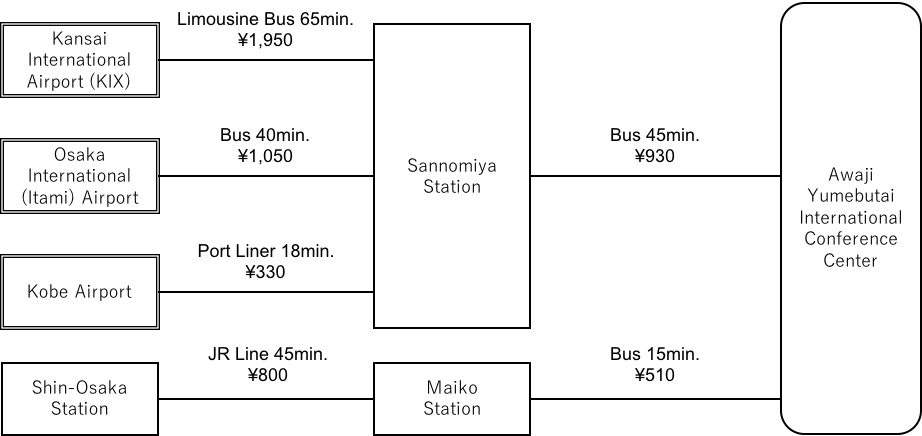
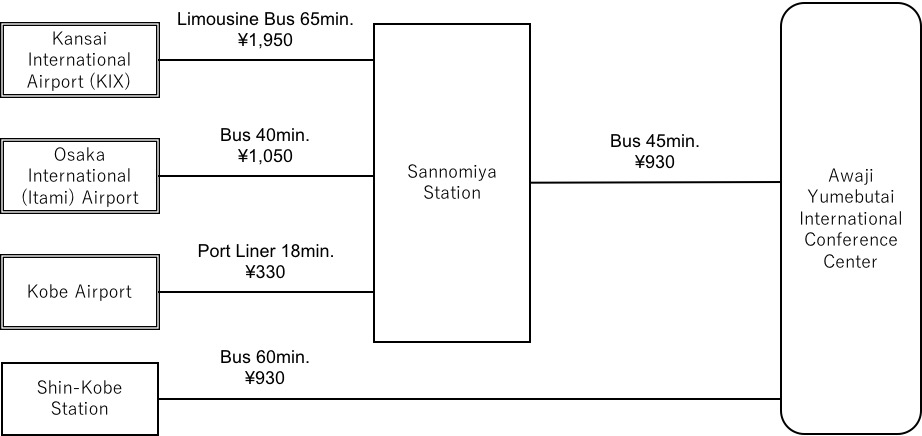
* update news * update venue

diff --git a/index.html b/index.html
@@ -12,49 +12,68 @@ status: published
 </div>
 <div class="home">
 
-<hr/>
+  <hr />
 
-<p>
-<b>The Joint International Semantic Technology Conference (JIST)</b> is a joint event for regional Semantic related conferences. <br>
-<b>The JIST2018</b> will take place from November 26 to 28, 2018 in
-the <b><a href="pages/attending/venue.html">Awaji Yumebutai International Conference Center</a></b>, Awaji City, Hyogo, Japan.
-</p>
+  <p>
+    <b>The Joint International Semantic Technology Conference (JIST)</b> is a joint event for regional Semantic related
+    conferences. <br>
+    <b>The JIST2018</b> will take place from November 26 to 28, 2018 in
+    the <b><a href="pages/attending/venue.html">Awaji Yumebutai International Conference Center</a></b>, Awaji City,
+    Hyogo, Japan.
+  </p>
 
-<p>
+  <p>
 
-<dl>
-<dt></dt>
-<dd class="indent"><b>20 Sep. 2018</b>: <span class="bold">Tentative Program</span> was published. <a href="pages/program/tentative.html">[detail..]</a></dd>
-<dd class="indent"><b>19 Sep. 2018</b>: <span class="bold">Tutorials Program</span> was published. <a href="pages/program/tutorials.html">[detail..]</a></dd>
-<dd class="indent"><b>18 Sep. 2018</b>: <span class="bold">Visa Information</span> was published. <a href="pages/attending/visa-info.html">[detail..]</a></dd>
-<dd class="indent"><b>14 Sep. 2018</b>: <span class="bold">CFP for Semantic Technology Special Issue</span> was published. <a href="pages/calls/ngc_semtech_cfp.html">[detail..]</a></dd>
-<dd class="indent"><b>13 Sep. 2018</b>: <span class="bold">Call for Workshop Papers</span> was published. <a href="pages/calls/workshop_papers.html">[detail..]</a></dd>
-<dd class="indent"><b>12 Sep. 2018</b>: <span class="bold">The Current Situation of Kasai Airport (KIX). <a href="pages/attending/venue.html#aboutKIX">[detail..]</a></dd>
-<dd class="indent"><b>10 Sep. 2018</b>: <span class="bold">Call for Poster and Demo Papers</span> was published. <a href="pages/calls/poster_demo_papers.html">[detail..]</a></dd>
-<dd class="indent"><b>29 Aug. 2018</b>: <span class="bold">Call for Tutorial Proposals</span> was published. <a href="pages/calls/tutorials.html">[detail..]</a></dd>
-<dd class="indent"><b>28 Aug. 2018</b>: <span class="bold">Call for Workshop Proposals</span> was published. <a href="pages/calls/workshops.html">[detail..]</a></dd>
-<dd class="indent"><b>24 Aug. 2018</b>: <a href="http://jist2018.knowledge-graph.jp/pages/sponsorship.html">Sponsorship information</a> was published.</dd>
-<dd class="indent"><b>04 Aug. 2018</b>: <a href="http://jist2018.knowledge-graph.jp/pages/calls/regular_technical_papers.html">The deadline for JIST 2018 Regular Technical Papers</a> was extended (Abstract:10 Aug., Paper: 17 Aug.)</dd>
-<dd class="indent"><b>13 July 2018</b>: <a href="docs/JIST2018_RegularTechnacal_CFP2.txt">2nd Call for Papers: JIST 2018 Regular Technical Papers</a> was published. </dd>
-<dd class="indent"><b>13 July 2018</b>: <a href="pages/attending/venue.html">Venu</a>, <a href="pages/attending/local-area.html">Local Area</a>, <a href="pages/attending/accommodations.html">Accommodations</a> pages were published. </dd>
-<dd class="indent"><b>15 May 2018</b>: <span class="bold">Call for Papers: JIST 2018 Regular Technical Papers</span> was published. <a href="pages/calls/regular_technical_papers.html">[detail..]</a></dd>
-<dd class="indent"><b>15 May 2018</b>: <span class="bold">Call for Papers: JIST 2018 Special Session on Government Open Data</span> was published. <a href="pages/calls/government_open_data.html">[detail..]</a></dd>
-<dd class="indent"><b>15 May 2018</b>: <span class="bold">Call for Papers: JIST 2018 Special Session on Question Answering and ChatBots</span> was published. <a href="pages/calls/qa_chatbots.html">[detail..]</a></dd>
-<dd class="indent"><b>15 May 2018</b>: <span class="bold">Call for Papers: JIST 2018 Special Session on Resource-aware Semantic Technologies</span> was published. <a href="pages/calls/resource-aware_semantic_technologies.html">[detail..]</a></dd>
-<dd class="indent"><b>15 May 2018</b>: <span class="bold">Call for Papers: JIST 2018 Special Session on Semantic Web for Life Sciences</span> was published. <a href="pages/calls/sw_for_life_sciences.html">[detail..]</a></dd>
-<dd class="indent"><b>16 Jan 2018</b>: <span class="bold">CALL FOR PROPOSALS FOR SPECIAL SESSIONS</span> was published. <a href="pages/calls/special-sessions.html">[detail..]</a></dd>
-<dd class="indent"><b>12 Nov 2017</b>: <span class="bold">The conference website</span> (tentative version) was published.
-</dd>
-</dl>
-</td>
-</p>
+    <dl>
+      <dt></dt>
+      <dd class="indent"><b>20 Sep. 2018</b>: <span class="bold">Excursion page</span> was published. <a href="pages/attending/excursion.html">[detail..]</a></dd>
+      <dd class="indent"><b>20 Sep. 2018</b>: <span class="bold">Registration page</span> was published. (Registration will be open soon.)<a href="pages/attending/registration.html">[detail..]</a></dd>
+      <dd class="indent"><b>20 Sep. 2018</b>: <span class="bold">Tentative Program</span> was published. <a href="pages/program/tentative.html">[detail..]</a></dd>
+      <dd class="indent"><b>19 Sep. 2018</b>: <span class="bold">Tutorials Program</span> was published. <a href="pages/program/tutorials.html">[detail..]</a></dd>
+      <dd class="indent"><b>18 Sep. 2018</b>: <span class="bold">Visa Information</span> was published. <a href="pages/attending/visa-info.html">[detail..]</a></dd>
+      <dd class="indent"><b>14 Sep. 2018</b>: <span class="bold">CFP for Semantic Technology Special Issue</span> was
+        published. <a href="pages/calls/ngc_semtech_cfp.html">[detail..]</a></dd>
+      <dd class="indent"><b>13 Sep. 2018</b>: <span class="bold">Call for Workshop Papers</span> was published. <a href="pages/calls/workshop_papers.html">[detail..]</a></dd>
+      <dd class="indent"><b>12 Sep. 2018</b>: <span class="bold">The Current Situation of Kasai Airport (KIX). <a href="pages/attending/venue.html#aboutKIX">[detail..]</a></dd>
+      <dd class="indent"><b>10 Sep. 2018</b>: <span class="bold">Call for Poster and Demo Papers</span> was published.
+        <a href="pages/calls/poster_demo_papers.html">[detail..]</a></dd>
+      <dd class="indent"><b>29 Aug. 2018</b>: <span class="bold">Call for Tutorial Proposals</span> was published. <a
+          href="pages/calls/tutorials.html">[detail..]</a></dd>
+      <dd class="indent"><b>28 Aug. 2018</b>: <span class="bold">Call for Workshop Proposals</span> was published. <a
+          href="pages/calls/workshops.html">[detail..]</a></dd>
+      <dd class="indent"><b>24 Aug. 2018</b>: <a href="http://jist2018.knowledge-graph.jp/pages/sponsorship.html">Sponsorship
+          information</a> was published.</dd>
+      <dd class="indent"><b>04 Aug. 2018</b>: <a href="http://jist2018.knowledge-graph.jp/pages/calls/regular_technical_papers.html">The
+          deadline for JIST 2018 Regular Technical Papers</a> was extended (Abstract:10 Aug., Paper: 17 Aug.)</dd>
+      <dd class="indent"><b>13 July 2018</b>: <a href="docs/JIST2018_RegularTechnacal_CFP2.txt">2nd Call for Papers:
+          JIST 2018 Regular Technical Papers</a> was published. </dd>
+      <dd class="indent"><b>13 July 2018</b>: <a href="pages/attending/venue.html">Venu</a>, <a href="pages/attending/local-area.html">Local
+          Area</a>, <a href="pages/attending/accommodations.html">Accommodations</a> pages were published. </dd>
+      <dd class="indent"><b>15 May 2018</b>: <span class="bold">Call for Papers: JIST 2018 Regular Technical Papers</span>
+        was published. <a href="pages/calls/regular_technical_papers.html">[detail..]</a></dd>
+      <dd class="indent"><b>15 May 2018</b>: <span class="bold">Call for Papers: JIST 2018 Special Session on
+          Government Open Data</span> was published. <a href="pages/calls/government_open_data.html">[detail..]</a></dd>
+      <dd class="indent"><b>15 May 2018</b>: <span class="bold">Call for Papers: JIST 2018 Special Session on Question
+          Answering and ChatBots</span> was published. <a href="pages/calls/qa_chatbots.html">[detail..]</a></dd>
+      <dd class="indent"><b>15 May 2018</b>: <span class="bold">Call for Papers: JIST 2018 Special Session on
+          Resource-aware Semantic Technologies</span> was published. <a href="pages/calls/resource-aware_semantic_technologies.html">[detail..]</a></dd>
+      <dd class="indent"><b>15 May 2018</b>: <span class="bold">Call for Papers: JIST 2018 Special Session on Semantic
+          Web for Life Sciences</span> was published. <a href="pages/calls/sw_for_life_sciences.html">[detail..]</a></dd>
+      <dd class="indent"><b>16 Jan 2018</b>: <span class="bold">CALL FOR PROPOSALS FOR SPECIAL SESSIONS</span> was
+        published. <a href="pages/calls/special-sessions.html">[detail..]</a></dd>
+      <dd class="indent"><b>12 Nov 2017</b>: <span class="bold">The conference website</span> (tentative version) was
+        published.
+      </dd>
+    </dl>
+    </td>
+  </p>
 
 
 
 
 
-<!-- ads -->
-<!--
+  <!-- ads -->
+  <!--
 <div>
 	<a href="{{ site.baseurl }}/pages/calls/lightning-talks.html">
 	  <img src="{{ site.baseurl }}/images/short-talk.png" width="100%">
@@ -67,8 +86,8 @@ the <b><a href="pages/attending/venue.html">Awaji Yumebutai International Confer
 
 <hr/>
 -->
-<!------- News ---------->
-<!--
+  <!------- News ---------->
+  <!--
 <div class="hidden-lg hidden-md">
 	<div class="allign-center">
 		<div class="list-group-item"  style="background-color: #009EF6">
@@ -81,8 +100,8 @@ the <b><a href="pages/attending/venue.html">Awaji Yumebutai International Confer
 </div>
 -->
 
-<!------- NOTE ---------->
-<!--
+  <!------- NOTE ---------->
+  <!--
 <div class="panel panel-info" style="border-width: 2px">
   <div class="panel-heading" style="position:relative">
     <h3>JIST2018 preprints</h3>

diff --git a/_site/index.html b/_site/index.html
@@ -563,49 +563,68 @@ jQuery(function($) {
 </div>
 <div class="home">
 
-<hr/>
+  <hr />
 
-<p>
-<b>The Joint International Semantic Technology Conference (JIST)</b> is a joint event for regional Semantic related conferences. <br>
-<b>The JIST2018</b> will take place from November 26 to 28, 2018 in
-the <b><a href="pages/attending/venue.html">Awaji Yumebutai International Conference Center</a></b>, Awaji City, Hyogo, Japan.
-</p>
+  <p>
+    <b>The Joint International Semantic Technology Conference (JIST)</b> is a joint event for regional Semantic related
+    conferences. <br>
+    <b>The JIST2018</b> will take place from November 26 to 28, 2018 in
+    the <b><a href="pages/attending/venue.html">Awaji Yumebutai International Conference Center</a></b>, Awaji City,
+    Hyogo, Japan.
+  </p>
 
-<p>
+  <p>
 
-<dl>
-<dt></dt>
-<dd class="indent"><b>20 Sep. 2018</b>: <span class="bold">Tentative Program</span> was published. <a href="pages/program/tentative.html">[detail..]</a></dd>
-<dd class="indent"><b>19 Sep. 2018</b>: <span class="bold">Tutorials Program</span> was published. <a href="pages/program/tutorials.html">[detail..]</a></dd>
-<dd class="indent"><b>18 Sep. 2018</b>: <span class="bold">Visa Information</span> was published. <a href="pages/attending/visa-info.html">[detail..]</a></dd>
-<dd class="indent"><b>14 Sep. 2018</b>: <span class="bold">CFP for Semantic Technology Special Issue</span> was published. <a href="pages/calls/ngc_semtech_cfp.html">[detail..]</a></dd>
-<dd class="indent"><b>13 Sep. 2018</b>: <span class="bold">Call for Workshop Papers</span> was published. <a href="pages/calls/workshop_papers.html">[detail..]</a></dd>
-<dd class="indent"><b>12 Sep. 2018</b>: <span class="bold">The Current Situation of Kasai Airport (KIX). <a href="pages/attending/venue.html#aboutKIX">[detail..]</a></dd>
-<dd class="indent"><b>10 Sep. 2018</b>: <span class="bold">Call for Poster and Demo Papers</span> was published. <a href="pages/calls/poster_demo_papers.html">[detail..]</a></dd>
-<dd class="indent"><b>29 Aug. 2018</b>: <span class="bold">Call for Tutorial Proposals</span> was published. <a href="pages/calls/tutorials.html">[detail..]</a></dd>
-<dd class="indent"><b>28 Aug. 2018</b>: <span class="bold">Call for Workshop Proposals</span> was published. <a href="pages/calls/workshops.html">[detail..]</a></dd>
-<dd class="indent"><b>24 Aug. 2018</b>: <a href="http://jist2018.knowledge-graph.jp/pages/sponsorship.html">Sponsorship information</a> was published.</dd>
-<dd class="indent"><b>04 Aug. 2018</b>: <a href="http://jist2018.knowledge-graph.jp/pages/calls/regular_technical_papers.html">The deadline for JIST 2018 Regular Technical Papers</a> was extended (Abstract:10 Aug., Paper: 17 Aug.)</dd>
-<dd class="indent"><b>13 July 2018</b>: <a href="docs/JIST2018_RegularTechnacal_CFP2.txt">2nd Call for Papers: JIST 2018 Regular Technical Papers</a> was published. </dd>
-<dd class="indent"><b>13 July 2018</b>: <a href="pages/attending/venue.html">Venu</a>, <a href="pages/attending/local-area.html">Local Area</a>, <a href="pages/attending/accommodations.html">Accommodations</a> pages were published. </dd>
-<dd class="indent"><b>15 May 2018</b>: <span class="bold">Call for Papers: JIST 2018 Regular Technical Papers</span> was published. <a href="pages/calls/regular_technical_papers.html">[detail..]</a></dd>
-<dd class="indent"><b>15 May 2018</b>: <span class="bold">Call for Papers: JIST 2018 Special Session on Government Open Data</span> was published. <a href="pages/calls/government_open_data.html">[detail..]</a></dd>
-<dd class="indent"><b>15 May 2018</b>: <span class="bold">Call for Papers: JIST 2018 Special Session on Question Answering and ChatBots</span> was published. <a href="pages/calls/qa_chatbots.html">[detail..]</a></dd>
-<dd class="indent"><b>15 May 2018</b>: <span class="bold">Call for Papers: JIST 2018 Special Session on Resource-aware Semantic Technologies</span> was published. <a href="pages/calls/resource-aware_semantic_technologies.html">[detail..]</a></dd>
-<dd class="indent"><b>15 May 2018</b>: <span class="bold">Call for Papers: JIST 2018 Special Session on Semantic Web for Life Sciences</span> was published. <a href="pages/calls/sw_for_life_sciences.html">[detail..]</a></dd>
-<dd class="indent"><b>16 Jan 2018</b>: <span class="bold">CALL FOR PROPOSALS FOR SPECIAL SESSIONS</span> was published. <a href="pages/calls/special-sessions.html">[detail..]</a></dd>
-<dd class="indent"><b>12 Nov 2017</b>: <span class="bold">The conference website</span> (tentative version) was published.
-</dd>
-</dl>
-</td>
-</p>
+    <dl>
+      <dt></dt>
+      <dd class="indent"><b>20 Sep. 2018</b>: <span class="bold">Excursion page</span> was published. <a href="pages/attending/excursion.html">[detail..]</a></dd>
+      <dd class="indent"><b>20 Sep. 2018</b>: <span class="bold">Registration page</span> was published. (Registration will be open soon.)<a href="pages/attending/registration.html">[detail..]</a></dd>
+      <dd class="indent"><b>20 Sep. 2018</b>: <span class="bold">Tentative Program</span> was published. <a href="pages/program/tentative.html">[detail..]</a></dd>
+      <dd class="indent"><b>19 Sep. 2018</b>: <span class="bold">Tutorials Program</span> was published. <a href="pages/program/tutorials.html">[detail..]</a></dd>
+      <dd class="indent"><b>18 Sep. 2018</b>: <span class="bold">Visa Information</span> was published. <a href="pages/attending/visa-info.html">[detail..]</a></dd>
+      <dd class="indent"><b>14 Sep. 2018</b>: <span class="bold">CFP for Semantic Technology Special Issue</span> was
+        published. <a href="pages/calls/ngc_semtech_cfp.html">[detail..]</a></dd>
+      <dd class="indent"><b>13 Sep. 2018</b>: <span class="bold">Call for Workshop Papers</span> was published. <a href="pages/calls/workshop_papers.html">[detail..]</a></dd>
+      <dd class="indent"><b>12 Sep. 2018</b>: <span class="bold">The Current Situation of Kasai Airport (KIX). <a href="pages/attending/venue.html#aboutKIX">[detail..]</a></dd>
+      <dd class="indent"><b>10 Sep. 2018</b>: <span class="bold">Call for Poster and Demo Papers</span> was published.
+        <a href="pages/calls/poster_demo_papers.html">[detail..]</a></dd>
+      <dd class="indent"><b>29 Aug. 2018</b>: <span class="bold">Call for Tutorial Proposals</span> was published. <a
+          href="pages/calls/tutorials.html">[detail..]</a></dd>
+      <dd class="indent"><b>28 Aug. 2018</b>: <span class="bold">Call for Workshop Proposals</span> was published. <a
+          href="pages/calls/workshops.html">[detail..]</a></dd>
+      <dd class="indent"><b>24 Aug. 2018</b>: <a href="http://jist2018.knowledge-graph.jp/pages/sponsorship.html">Sponsorship
+          information</a> was published.</dd>
+      <dd class="indent"><b>04 Aug. 2018</b>: <a href="http://jist2018.knowledge-graph.jp/pages/calls/regular_technical_papers.html">The
+          deadline for JIST 2018 Regular Technical Papers</a> was extended (Abstract:10 Aug., Paper: 17 Aug.)</dd>
+      <dd class="indent"><b>13 July 2018</b>: <a href="docs/JIST2018_RegularTechnacal_CFP2.txt">2nd Call for Papers:
+          JIST 2018 Regular Technical Papers</a> was published. </dd>
+      <dd class="indent"><b>13 July 2018</b>: <a href="pages/attending/venue.html">Venu</a>, <a href="pages/attending/local-area.html">Local
+          Area</a>, <a href="pages/attending/accommodations.html">Accommodations</a> pages were published. </dd>
+      <dd class="indent"><b>15 May 2018</b>: <span class="bold">Call for Papers: JIST 2018 Regular Technical Papers</span>
+        was published. <a href="pages/calls/regular_technical_papers.html">[detail..]</a></dd>
+      <dd class="indent"><b>15 May 2018</b>: <span class="bold">Call for Papers: JIST 2018 Special Session on
+          Government Open Data</span> was published. <a href="pages/calls/government_open_data.html">[detail..]</a></dd>
+      <dd class="indent"><b>15 May 2018</b>: <span class="bold">Call for Papers: JIST 2018 Special Session on Question
+          Answering and ChatBots</span> was published. <a href="pages/calls/qa_chatbots.html">[detail..]</a></dd>
+      <dd class="indent"><b>15 May 2018</b>: <span class="bold">Call for Papers: JIST 2018 Special Session on
+          Resource-aware Semantic Technologies</span> was published. <a href="pages/calls/resource-aware_semantic_technologies.html">[detail..]</a></dd>
+      <dd class="indent"><b>15 May 2018</b>: <span class="bold">Call for Papers: JIST 2018 Special Session on Semantic
+          Web for Life Sciences</span> was published. <a href="pages/calls/sw_for_life_sciences.html">[detail..]</a></dd>
+      <dd class="indent"><b>16 Jan 2018</b>: <span class="bold">CALL FOR PROPOSALS FOR SPECIAL SESSIONS</span> was
+        published. <a href="pages/calls/special-sessions.html">[detail..]</a></dd>
+      <dd class="indent"><b>12 Nov 2017</b>: <span class="bold">The conference website</span> (tentative version) was
+        published.
+      </dd>
+    </dl>
+    </td>
+  </p>
 
 
 
 
 
-<!-- ads -->
-<!--
+  <!-- ads -->
+  <!--
 <div>
 	<a href="/pages/calls/lightning-talks.html">
 	  <img src="/images/short-talk.png" width="100%">
@@ -618,8 +637,8 @@ the <b><a href="pages/attending/venue.html">Awaji Yumebutai International Confer
 
 <hr/>
 -->
-<!------- News ---------->
-<!--
+  <!------- News ---------->
+  <!--
 <div class="hidden-lg hidden-md">
 	<div class="allign-center">
 		<div class="list-group-item"  style="background-color: #009EF6">
@@ -632,8 +651,8 @@ the <b><a href="pages/attending/venue.html">Awaji Yumebutai International Confer
 </div>
 -->
 
-<!------- NOTE ---------->
-<!--
+  <!------- NOTE ---------->
+  <!--
 <div class="panel panel-info" style="border-width: 2px">
   <div class="panel-heading" style="position:relative">
     <h3>JIST2018 preprints</h3>

diff --git a/_site/pages/attending/venue.html b/_site/pages/attending/venue.html
@@ -605,14 +605,13 @@ Please take Limousine Bus to Sannomiya station and change to another bus to the 
 		</li>	
 </ol>
 
-<h4><a href="https://www.osakastation.com/shin-osaka-station-facilities-transfers/">From Shin-Osaka Station</a></h4>
+<h4>From Shin-Kobe Station</h4>
 <p>
-	Please change to JR line from Shin-Osaka station to Maiko station. Then, take a bus to the venue.
+	Please take a bus to the venue.
 </p>
 <ol>
-		<li><a href="https://www.westjr.co.jp/global/en/timetable/">Train time table from Shin-Osaka station to Maiko station</a> (about 45min.¥800) </li>		
-		<li><a href="http://www.yumebutai.org/english/access/detail/time_maiko.html">Bus time table from Maiko station to the venue</a> (about 45min. ¥930)<br>
-			(<a href="http://www.yumebutai.org/english/access/detail/info_maiko.html">Connection guide</a> and <a href="http://www.yumebutai.org/english/access/detail/movie_maiko.html">Connection guide video</a>)
+		<li><a href="http://www.yumebutai.org/english/access/detail/time_sinkobe.html">Bus time table from Shin-Kobe station to the venue</a> (about 60min.¥930) </li>		
+			(<a href="http://www.yumebutai.org/english/access/detail/info_sinkobe.html">Connection guide</a> and <a href="http://www.yumebutai.org/english/access/detail/movie_sinkobe.html">Connection guide video</a>)
 		</li>	
 </ol>
 

diff --git a/pages/attending/venue.html b/pages/attending/venue.html
@@ -102,14 +102,13 @@ Please take Limousine Bus to Sannomiya station and change to another bus to the 
 		</li>	
 </ol>
 
-<h4><a href="https://www.osakastation.com/shin-osaka-station-facilities-transfers/">From Shin-Osaka Station</a></h4>
+<h4>From Shin-Kobe Station</h4>
 <p>
-	Please change to JR line from Shin-Osaka station to Maiko station. Then, take a bus to the venue.
+	Please take a bus to the venue.
 </p>
 <ol>
-		<li><a href="https://www.westjr.co.jp/global/en/timetable/">Train time table from Shin-Osaka station to Maiko station</a> (about 45min.¥800) </li>		
-		<li><a href="http://www.yumebutai.org/english/access/detail/time_maiko.html">Bus time table from Maiko station to the venue</a> (about 45min. ¥930)<br>
-			(<a href="http://www.yumebutai.org/english/access/detail/info_maiko.html">Connection guide</a> and <a href="http://www.yumebutai.org/english/access/detail/movie_maiko.html">Connection guide video</a>)
+		<li><a href="http://www.yumebutai.org/english/access/detail/time_sinkobe.html">Bus time table from Shin-Kobe station to the venue</a> (about 60min.¥930) </li>		
+			(<a href="http://www.yumebutai.org/english/access/detail/info_sinkobe.html">Connection guide</a> and <a href="http://www.yumebutai.org/english/access/detail/movie_sinkobe.html">Connection guide video</a>)
 		</li>	
 </ol>
 
